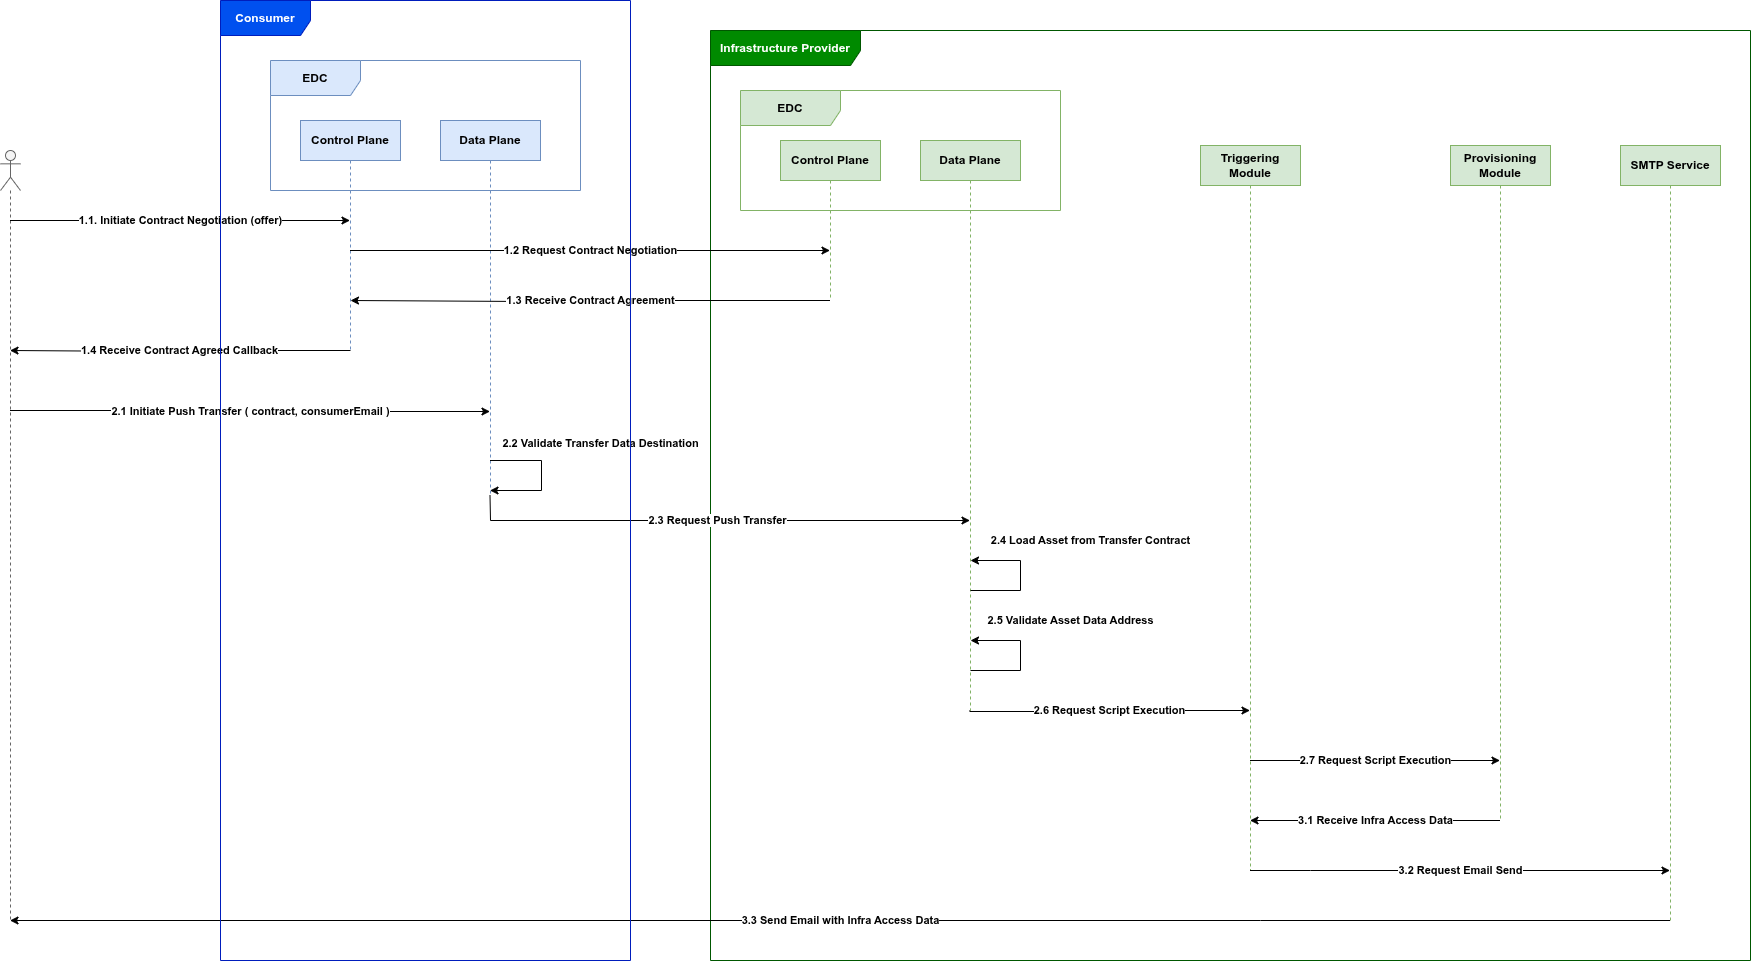
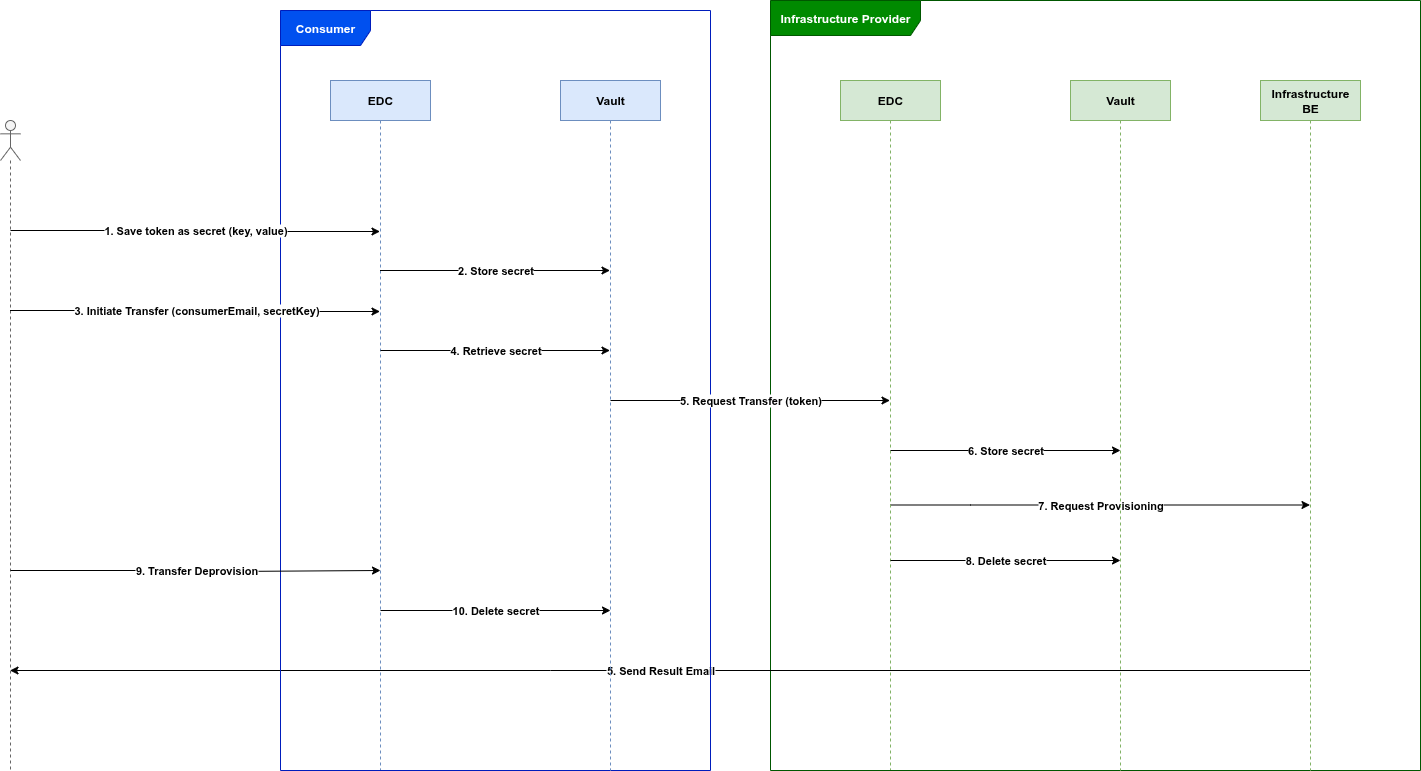
chore: updating README

diff --git a/README.md b/README.md
@@ -4,7 +4,7 @@ This repository contains the SIMPL Extension that works with the Eclipse Dataspa
 
 ## Based on the following
 
-- [Eclipse EDC](https://github.com/eclipse-dataspaceconnector/DataSpaceConnector) - v0.7.2;
+- [Eclipse EDC](https://github.com/eclipse-dataspaceconnector/DataSpaceConnector) - v0.10.1;
 
 
 ## Requirements
@@ -33,27 +33,39 @@ The extension has the following modules:
 | `eu.europa.ec.simpl.programme.infrastructure.edc:data-plane`    | Allows the triggering process of a deployment script inside the SIMPL context |
 
 ### Dependencies
-The extension has the following dependencies:
+The `control-plane` extension has the following dependencies:
 
-| Module name                           | Description                        |
-|---------------------------------------|------------------------------------|
-| `org.eclipse.edc:connector-core`      | Main features of a connector       |
-| `org.eclipse.edc:control-plane-core`  | Main features of the control plane |
-| `org.eclipse.edc:data-plane-core`     | Main features of the data plane    |
+| Module name                          | Description                        |
+|--------------------------------------|------------------------------------|
+| `org.eclipse.edc:control-plane-core` | Main features of the control plane |
+| `org.eclipse.edc:management-api`     | Management API extension           |
+| `org.eclipse.edc:secrets-api`        | Management Secrets API extension   |
+
+The `data-plane` extension has the following dependencies:
+
+| Module name                          | Description                     |
+|--------------------------------------|---------------------------------|
+| `org.eclipse.edc:data-plane-core`    | Main features of the data plane |
+
+### Configurations
+The `data-plane` extension has the following configurations:
+
+| Configuration name                            | Description                                                                                                                 |
+|-----------------------------------------------|-----------------------------------------------------------------------------------------------------------------------------|
+| `edc.infrastructure.simpl.default.auth.token` | Default authentication token send to infrastructure-be API if a `secretKey` is not provided in the transfer process request |
 
 ### Usage
 
 #### Diagrams
 
-Negotiation and Transfer processes sequence diagram:
+Negotiation and transfer sequence diagram:
 
 ![Logo](docs/images/transfer-sequence-diagram.png)
 
 #### Payloads
 
-Payload of the creation of an asset, using the /management/v3/assets/ endpoint of the Connector:
+Payload of the creation of an asset, using the `/management/v3/assets/ endpoint` of the Connector:
 ```
-Sample:
 {
     "@context": {
         "@vocab": "https://w3id.org/edc/v0.0.1/ns/")
@@ -69,17 +81,17 @@ Sample:
     }
 }
 ```
-| Field name                     | Description                                                                                                 |
-|--------------------------------|-------------------------------------------------------------------------------------------------------------|
-| @id                            | Id of the asset                                                                                             |
-| properties.name                | Name of the asset                                                                                           |
-| dataAddress.type               | This extension uses the `Infrastructure` designation                                                        |
-| dataAddress.provioningAPI      | URL of the triggering module's API that will provision the deployment script on the infrastructure provider |
-| dataAddress.deploymentScriptId | Id the of deployment script registered on the triggering module                                             |
 
-Triggering of the `deployment script`, using the management/v3/transferprocesses endpoint of the Connector:
+| Field name                       | Description                                                                                                 |
+|----------------------------------|-------------------------------------------------------------------------------------------------------------|
+| `@id`                            | Id of the asset                                                                                             |
+| `properties.name`                | Name of the asset                                                                                           |
+| `dataAddress.type`               | This extension uses the `Infrastructure` designation                                                        |
+| `dataAddress.provioningAPI`      | URL of the triggering module's API that will provision the deployment script on the infrastructure provider |
+| `dataAddress.deploymentScriptId` | Id the of deployment script registered on the triggering module                                             |
+
+Triggering of the deployment script, using the `management/v3/transferprocesses` endpoint of the Connector:
 ```
-Sample
 {
     "@context":{
         "edc":"https://w3id.org/edc/v0.0.1/ns/"
@@ -91,15 +103,18 @@ Sample
     "transferType": "Infrastructure-PUSH",
     "dataDestination":{
         "type":"Infrastructure",
+        "secretKey": "7ad730f9-b380-4cc2-9268-61284dbda6ba"
         "consumerEmail": "someuser@xptodomain.com"
     }
 }
 ```
-| Field name                     | Description                                                                        |
-|--------------------------------|------------------------------------------------------------------------------------|
-| transferType                   | This extension uses the `Infrastructure-PUSH` designation                          |
-| dataDestination.type           | This extension uses the `Infrastructure` designation                               |
-| dataDestination.consumerEmail  | Email address that will receive the result of the deployment script's provisioning |
+
+| Field name                    | Required | Description                                                                                                                                                                                                                                                                                                                                                                                             |
+|-------------------------------|----------|---------------------------------------------------------------------------------------------------------------------------------------------------------------------------------------------------------------------------------------------------------------------------------------------------------------------------------------------------------------------------------------------------------|
+| transferType                  | True     | This extension uses the `Infrastructure-PUSH` designation                                                                                                                                                                                                                                                                                                                                               |
+| dataDestination.type          | True     | This extension uses the `Infrastructure` designation                                                                                                                                                                                                                                                                                                                                                    |
+| dataDestination.secretKey     | False    | Id of the secret stored in the Vault using the [Secrets API](https://eclipse-edc.github.io/Connector/openapi/management-api/#/). This secret's value will be send as `Authorization` header to the infrastructure-be API. If a `secretKey` is not send, the value configured in `edc.infrastructure.simpl.default.auth.token` will be send as `Authorization` header to the infrastructure-be API |
+| dataDestination.consumerEmail | True     | Email address that will receive the result of the deployment script's provisioning                                                                                                                                                                                                                                                                                                                      |
 
 Note: the scope of this repo is NOT to explain the complete flows (and payloads) of the EDC Connector. If you want to know more please take a look at the [Eclipse EDC Samples](https://github.com/eclipse-edc/Samples).
 
